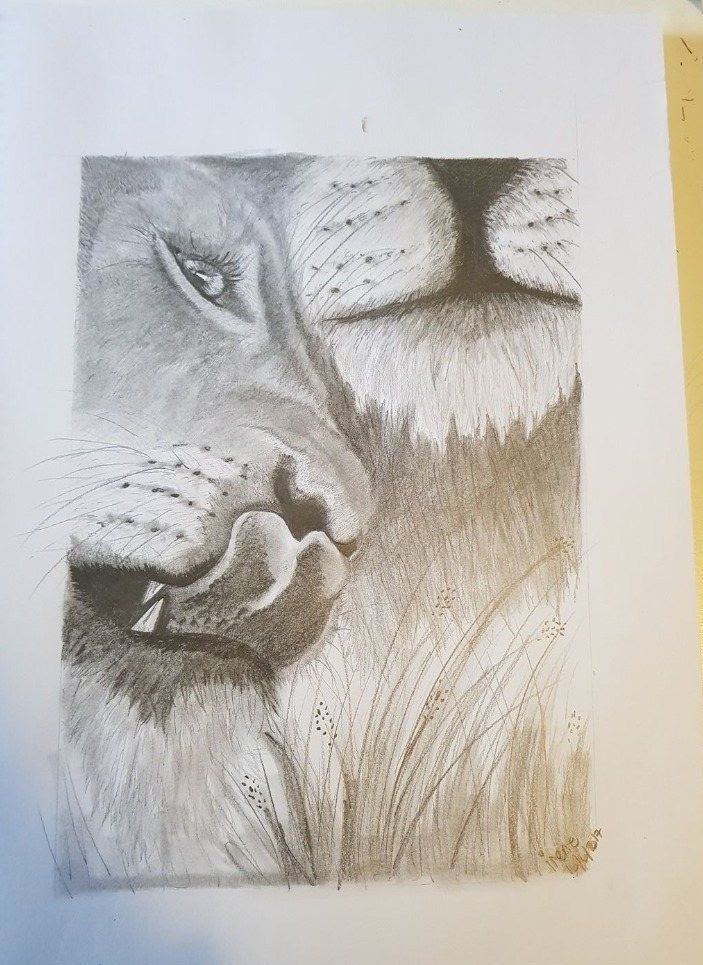
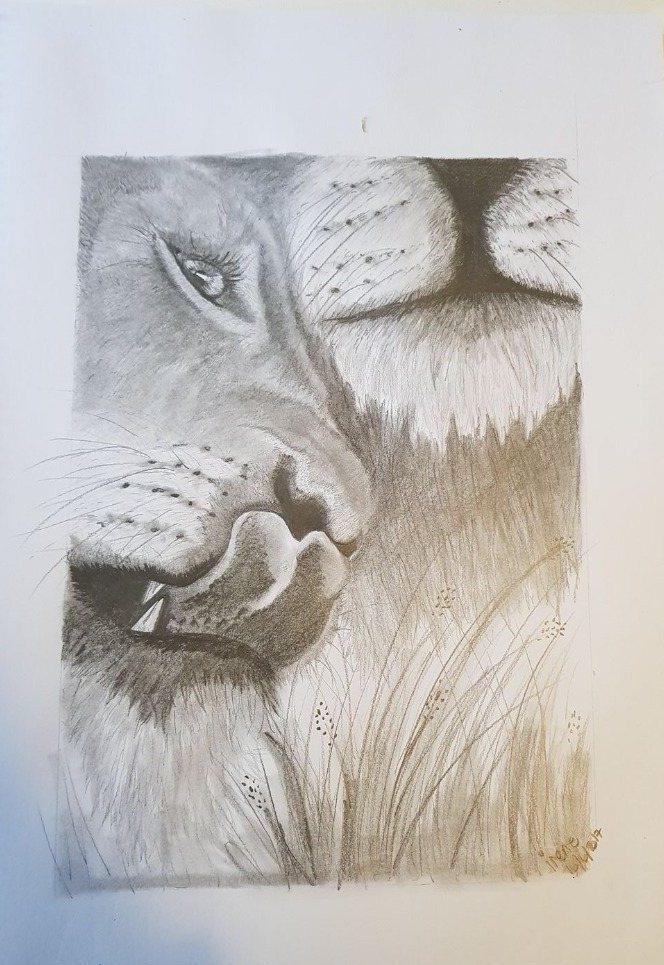
Plate XII: the warm edge of the table cropped off too
The first crop of the lion stopped 17px short: the table's gold strip
fades into the page over about 40px, and the plate still carried a
faint yellow band down its right edge on the spread. The crop is now
taken from the original file at the point where the paper's colour
is level (664x965; GALLERY_SIZES follows). The drawing keeps 70px of
paper on its right, a little less than on its left.

Claude-Session: https://claude.ai/code/session_01XUmt6vFxAdG1PUjwhavU8Z

Changed region(s): [[0.0602, 0.1554, 0.9036, 0.9326], [0.9337, 0.0, 1.0, 0.715]]

diff --git a/gallery-data.js b/gallery-data.js
@@ -61,7 +61,7 @@ window.GALLERY_SIZES = {
   "Category 2/download5.jpg": [699, 1000],
   "Category 2/download6.jpg": [669, 1000],
   "Category 3/download1.jpg": [482, 752],
-  "Category 3/download2.jpg": [703, 965],
+  "Category 3/download2.jpg": [664, 965],
   "Category 3/download3.jpg": [528, 840],
   "Category 3/download4.jpg": [621, 1000],
   "Category 3/download 4.jpg": [678, 1000],
